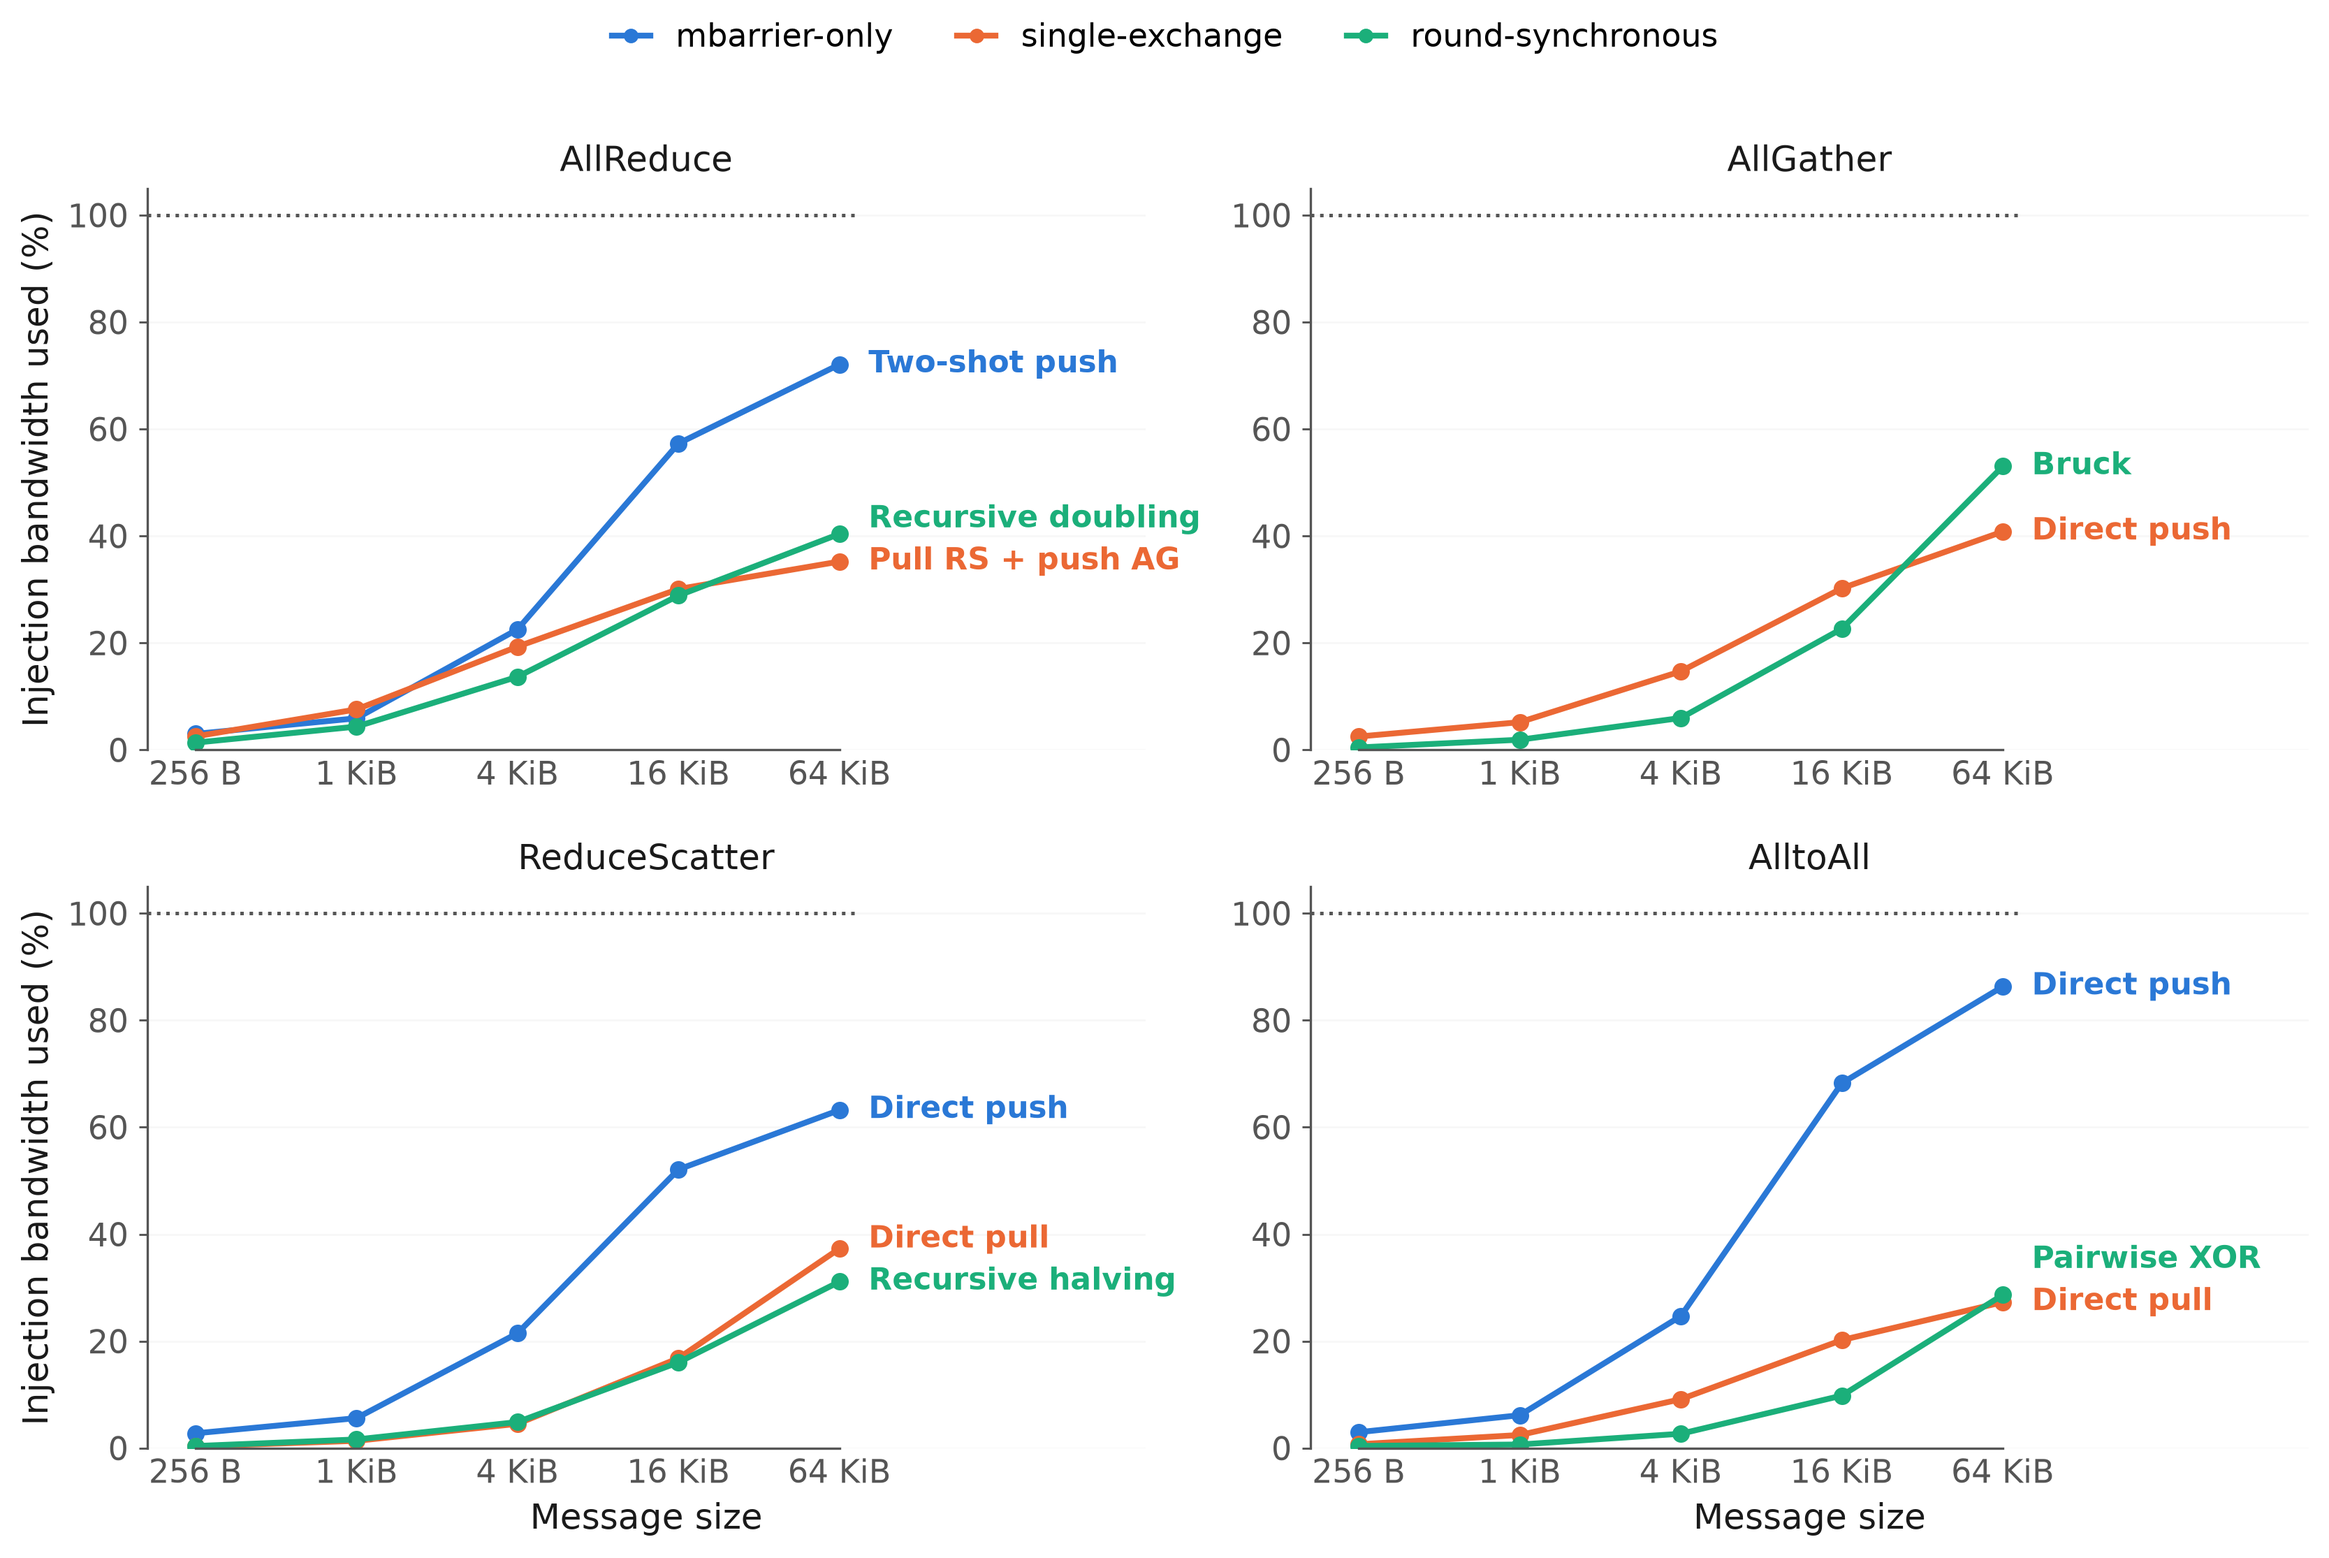
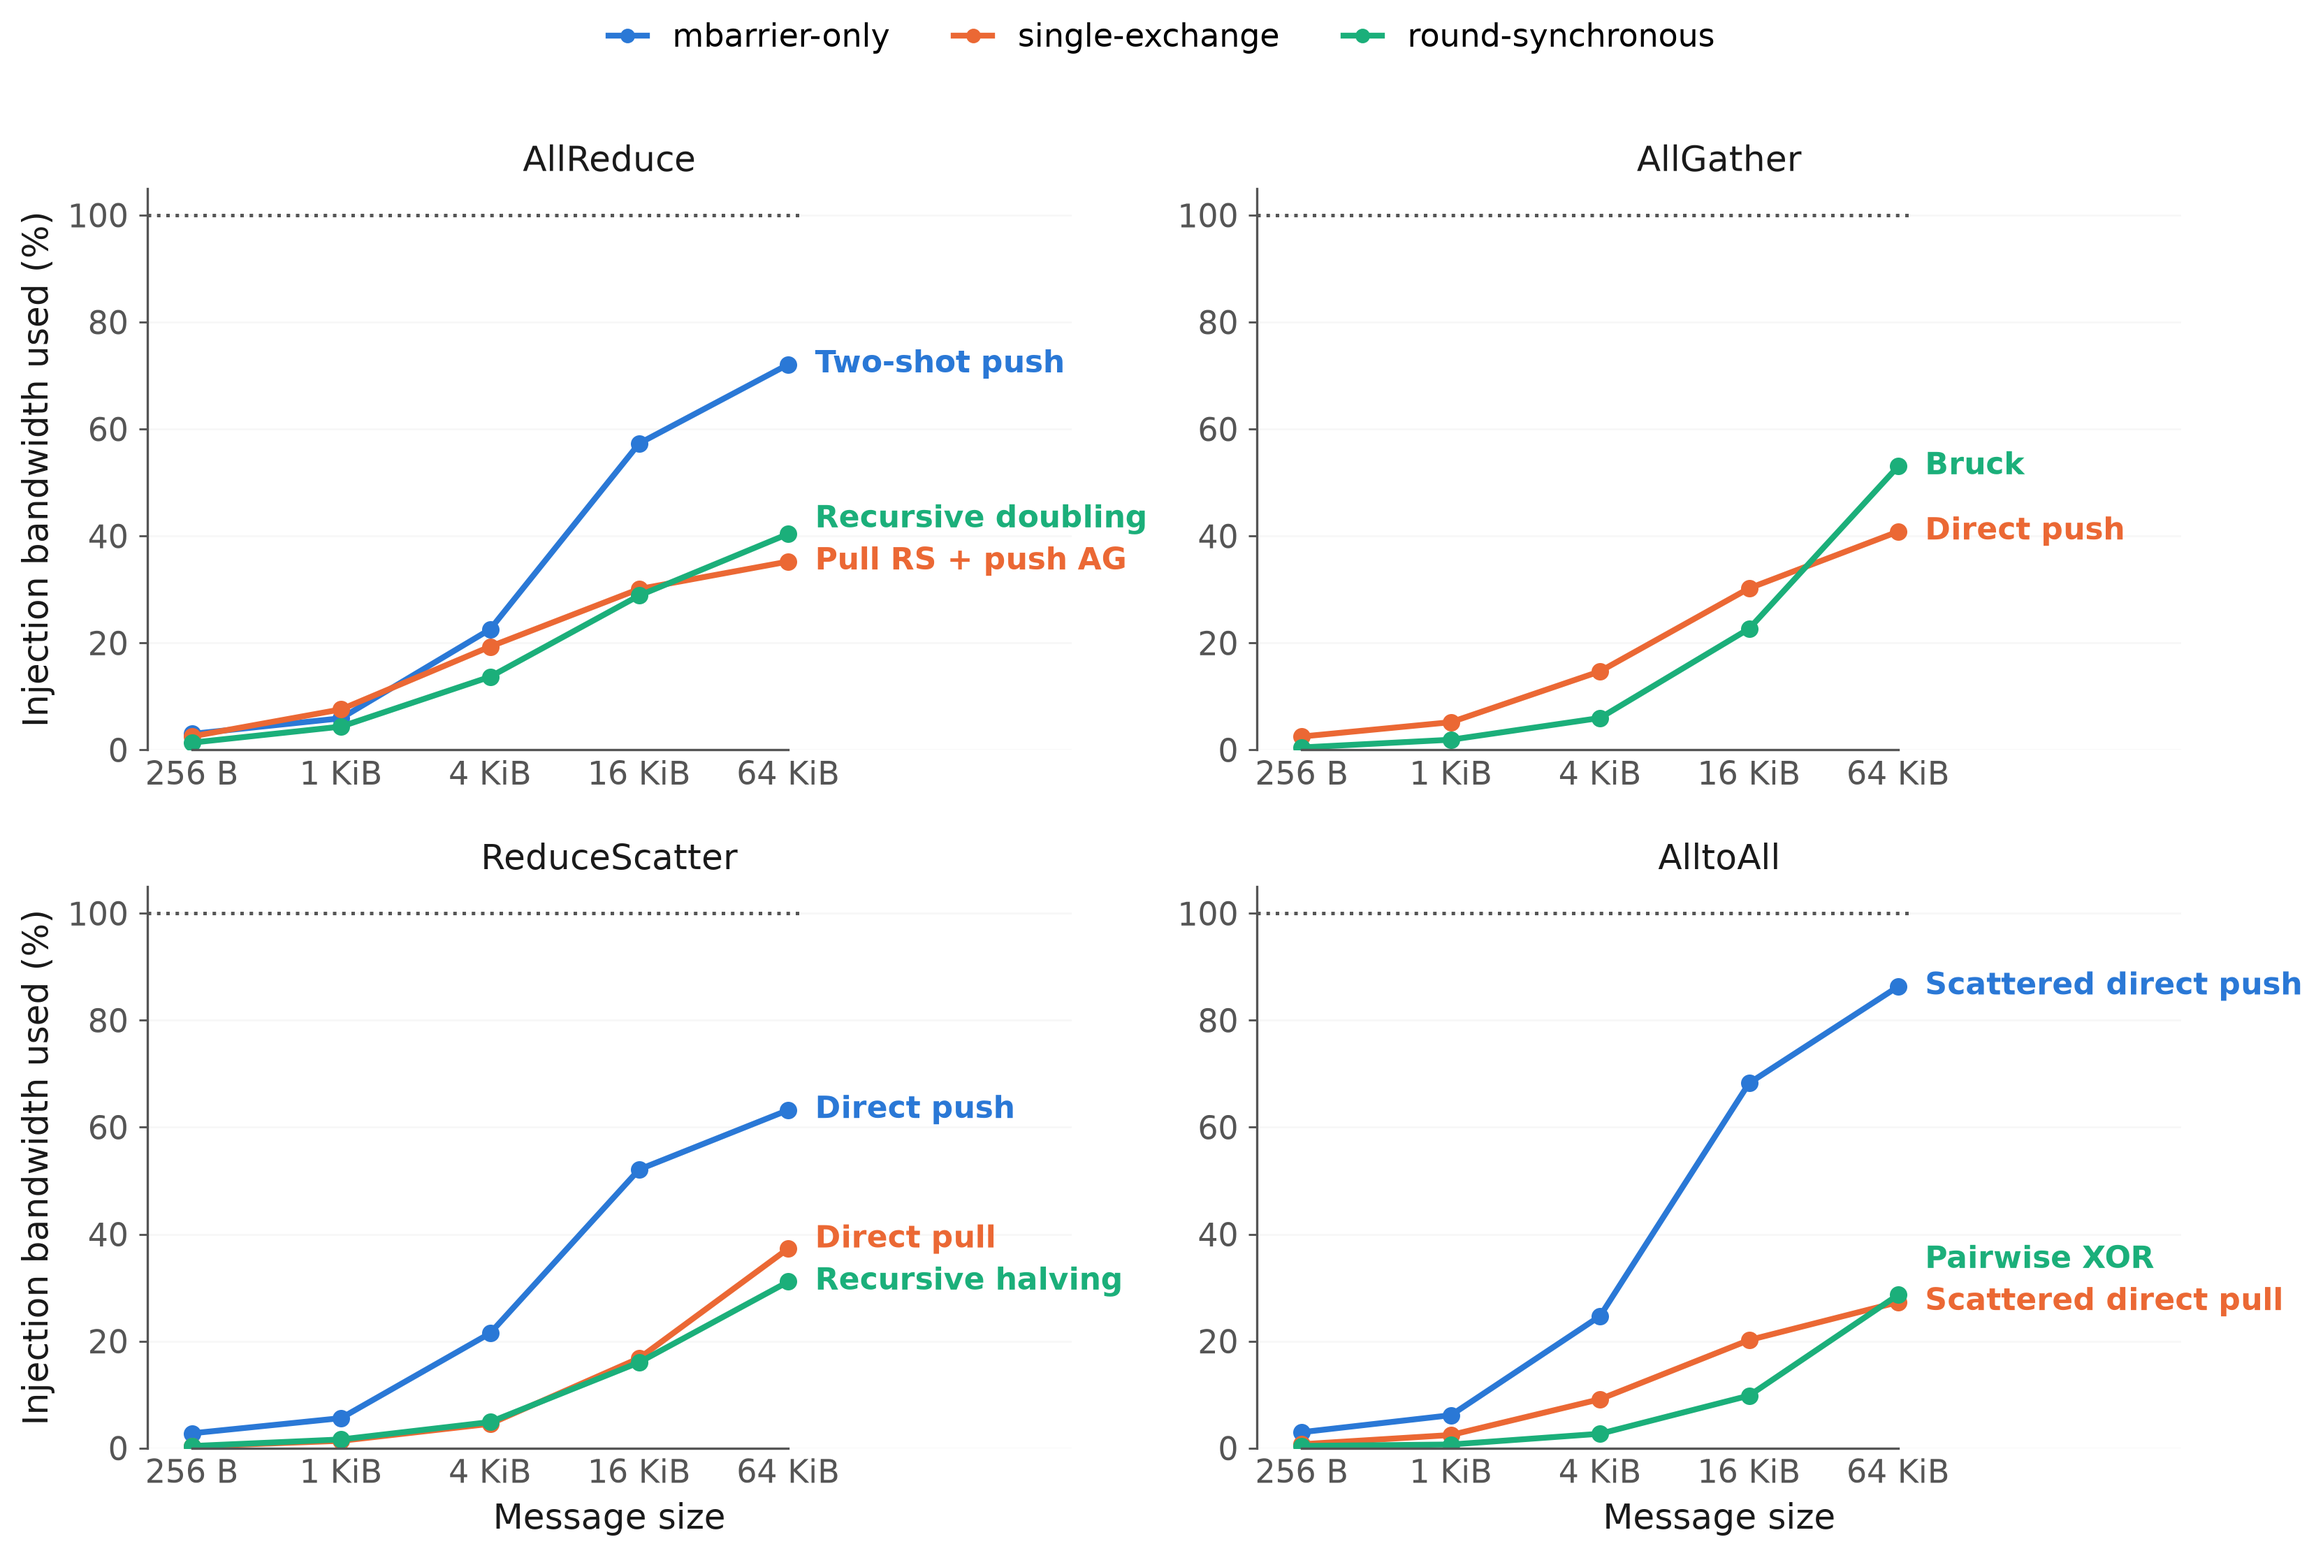
presentation: drop release/acquire hand-offs, cite algorithm origins
- handoff.png: relaxed remote mbarrier.arrive, st.async / red.async + mbarrier, 2 x barrier.cluster,
  st + ld.volatile poll (release/acquire flags and release arrive removed); slide 4 bullets rewritten
  without release/acquire costs.
- Algorithm origins instead of "generic": AlltoAll direct push = MPICH scattered isend/irecv
  ((rank + i) % p), shift = MPICH long-message pairwise exchange (Thakur, Rabenseifner, Gropp, IJHPCA
  2005), direct pull = its pull form; AllReduce 2-D mesh = 2D-Torus all-reduce (Mikami et al. 2018);
  atomic all-push = ClusterFusion scalar ClusterReduce; ReduceScatter direct push / pull = TensorRT-LLM
  two-shot phase 1 / hpc-ops phase 1; AllGather direct pull = TensorRT-LLM one-shot gather.

diff --git a/presentation/make_figures.py b/presentation/make_figures.py
@@ -277,35 +277,27 @@ def handoff():
     plt.close("all")
     rt = i["cs2_round_trip_cycles"]
     pick = lambda s: next(v for k, v in rt.items() if s in k)
-    rows = [("st.async + mbarrier", pick("st.async"), S.BLUE),
-            ("st + ld.volatile poll", pick("remote st + local"), S.GREY),
-            ("remote mbarrier.arrive.release", pick("arrive (release)"), S.ORANGE),
-            ("st.release / ld.acquire (SMEM)", pick("st.release"), S.ORANGE),
-            ("st.release / ld.acquire (global)", pick("global flag"), S.ORANGE)]
+    rows = [("remote mbarrier.arrive.relaxed", pick("arrive (relaxed)"), S.GREY),
+            ("st.async + mbarrier", pick("st.async"), S.BLUE),
+            ("red.async + mbarrier", pick("red.async"), S.BLUE),
+            ("2 × barrier.cluster", pick("two cluster.sync"), S.ORANGE),
+            ("st + ld.volatile poll", pick("remote st + local"), S.GREY)]
     f, ax = plt.subplots(figsize=(5.4, 3.8), constrained_layout=True)
     y = np.arange(len(rows))[::-1]
     rects = ax.barh(y, [r[1] for r in rows], color=[r[2] for r in rows], height=0.62)
-    gf = i["global_flag_home_other_partition"]
-    ax.plot([rows[-1][1], gf], [y[-1], y[-1]], color=S.INK, lw=1.2)
-    ax.plot([gf, gf], [y[-1] - 0.16, y[-1] + 0.16], color=S.INK, lw=1.2)
-    for r, (lab, val, _) in zip(rects, rows):
-        txt = f"{val:.0f}–{gf:.0f}" if "global" in lab else f"{val:.0f}"
-        x = gf if "global" in lab else val
-        ax.annotate(txt, (x, r.get_y() + r.get_height() / 2), xytext=(4, 0), textcoords="offset points",
-                    va="center", fontsize=10.5, color=S.INK2)
+    bar_labels(ax, rects, horizontal=True)
     ax.set_yticks(y, [r[0] for r in rows], fontsize=10.5)
     ax.tick_params(axis="y", length=0)
     ax.grid(axis="y", visible=False)
     ax.grid(axis="x", visible=True)
-    ax.set_xlim(0, 2700)
+    ax.set_xlim(0, 900)
     ax.set_xlabel("Round trip (cycles)")
-    f.legend(handles=[Patch(color=S.BLUE, label="data + completion (no fence)"),
-                      Patch(color=S.GREY, label="no ordering guarantee"),
-                      Patch(color=S.ORANGE, label="release / acquire")],
-             loc="outside upper center", ncol=1, fontsize=10.5)
+    f.legend(handles=[Patch(color=S.BLUE, label="data with completion"),
+                      Patch(color=S.GREY, label="signal only"),
+                      Patch(color=S.ORANGE, label="cluster barrier")],
+             loc="outside upper center", ncol=3, fontsize=10.5)
     for lab, val, _ in rows:
         note(4, f"round trip {lab}", val)
-    note(4, "global flag, home in other partition", gf)
     save(f, "handoff")
 
 
@@ -321,24 +313,24 @@ ALG = {  # file -> (algorithm, origin, rounds, transport)
     "allreduce__pull_reduce_scatter_push_allgather__hpcops": ("Pull RS + push AG", "hpc-ops", "1", "remote load/store"),
     "allreduce__shift_accumulate_bulk__clusterfusion": ("Shift-accumulate (bulk)", "ClusterFusion", "N−2", "bulk copy"),
     "allreduce__shift_accumulate_atomic__clusterfusion": ("Shift-accumulate (atomic)", "ClusterFusion", "N−2", "remote atomic"),
-    "allreduce__atomic_all_push__generic": ("Atomic all-push", "generic", "1", "remote atomic"),
-    "allreduce__2d_mesh__generic": ("2-D mesh", "generic", "3", "bulk copy"),
+    "allreduce__atomic_all_push__generic": ("Atomic all-push", "ClusterFusion (scalar ClusterReduce)", "1", "remote atomic"),
+    "allreduce__2d_mesh__generic": ("2-D torus", "2D-Torus all-reduce (Mikami et al.)", "3", "bulk copy"),
     "allgather__ring__nccl": ("Ring", "NCCL", "N−1", "bulk copy"),
     "allgather__recursive_doubling__clusterfusion": ("Recursive doubling", "ClusterFusion", "log₂N", "bulk copy"),
     "allgather__direct_shift__clusterfusion": ("Direct shift", "ClusterFusion", "N−1", "bulk copy"),
     "allgather__bruck__mpich": ("Bruck", "MPICH", "⌈log₂N⌉", "bulk copy"),
     "allgather__gather_bcast_binomial__mpich": ("Binomial gather + broadcast", "MPICH", "2·log₂N", "bulk copy"),
     "allgather__direct_replicated_push__credit": ("Direct push", "CREDIT", "1", "remote store"),
-    "allgather__direct_pull__generic": ("Direct pull", "generic", "1", "remote load"),
+    "allgather__direct_pull__generic": ("Direct pull", "TensorRT-LLM (one-shot gather)", "1", "remote load"),
     "reducescatter__ring__nccl": ("Ring", "NCCL", "N−1", "bulk copy"),
     "reducescatter__recursive_halving__mpich": ("Recursive halving", "MPICH", "log₂N", "bulk copy"),
-    "reducescatter__direct_push__generic": ("Direct push", "generic", "1", "bulk copy"),
-    "reducescatter__direct_pull__generic": ("Direct pull", "generic", "1", "remote load"),
+    "reducescatter__direct_push__generic": ("Direct push", "TensorRT-LLM (two-shot phase 1)", "1", "bulk copy"),
+    "reducescatter__direct_pull__generic": ("Direct pull", "hpc-ops (phase 1)", "1", "remote load"),
     "alltoall__pairwise_xor__mpich": ("Pairwise XOR", "MPICH", "N−1", "bulk copy"),
     "alltoall__bruck__mpich": ("Bruck", "MPICH", "log₂N", "bulk copy"),
-    "alltoall__shift__generic": ("Shift", "generic", "N−1", "bulk copy"),
-    "alltoall__direct_push__generic": ("Direct push", "generic", "1", "bulk copy"),
-    "alltoall__direct_pull__generic": ("Direct pull", "generic", "1", "remote load"),
+    "alltoall__shift__generic": ("Pairwise exchange (shift)", "MPICH", "N−1", "bulk copy"),
+    "alltoall__direct_push__generic": ("Scattered direct push", "MPICH", "1", "bulk copy"),
+    "alltoall__direct_pull__generic": ("Scattered direct pull", "MPICH (pull form)", "1", "remote load"),
     "alltoall__pairwise_exchange__fa4": ("Pairwise exchange", "FlashAttention-4", "1 (N = 2 only)", "bulk copy"),
 }
 CLASS_OF = dict(zip(C.CF.STYLES, S.CLASSES))

diff --git a/presentation/slides.md b/presentation/slides.md
@@ -37,15 +37,16 @@ Figure: `dsmem_bandwidth.png`
 ## 4. Synchronization overheads
 Figures: `sync_costs.png` (left; 256 threads per CTA), `handoff.png` (right; CS 2)
 
-- Every release operation compiles to a GPU-scope `MEMBAR`: `fence.sc.gpu` **281 cycles**, **441** after a prior store
-- `barrier.cluster`: **410 cycles** (no prior store), **580** (after a store); relaxed arrive + wait: 46
 - mbarrier operations: **29–39 cycles**
-- Lowest-cost data hand-off: `st.async` + mbarrier, **565-cycle round trip**; release/acquire flag 1325; global-memory flag 1962–2126
+- `barrier.cluster`: **410 cycles** without a prior store, **580** after a store; relaxed arrive + wait: **46**
+- Lowest-cost hand-off with data: `st.async` / `red.async` + mbarrier, **565-cycle round trip** (≈ 160 ns one way)
+- A hand-off through two cluster barriers costs **712 cycles**
 
 ---
 
 ## 5. DSMEM collectives: algorithms
 Table below (also `collective_algorithms.csv`). One cluster per launch, 256 threads per CTA, N = 2–16.
+Origin references: MPICH — Thakur, Rabenseifner, Gropp, *Optimization of Collective Communication Operations in MPICH*, IJHPCA 19(1), 2005; 2D-Torus all-reduce — Mikami et al., *Massively Distributed SGD: ImageNet/ResNet-50 Training in a Flash*, arXiv:1811.05233, 2018.
 
 Synchronization taxonomy:
 - **mbarrier-only** — data movement completes on the receiver's mbarrier; no cluster barrier inside the collective
@@ -54,9 +55,9 @@ Synchronization taxonomy:
 
 | Collective | Algorithm | Origin | Synchronization | Rounds | Transport |
 |---|---|---|---|---|---|
-| AllReduce | 2-D mesh | generic | mbarrier-only | 3 | bulk copy |
+| AllReduce | 2-D torus | 2D-Torus all-reduce (Mikami et al.) | mbarrier-only | 3 | bulk copy |
 | AllReduce | Two-shot push | TensorRT-LLM | mbarrier-only | 2 | bulk copy |
-| AllReduce | Atomic all-push | generic | single-exchange | 1 | remote atomic |
+| AllReduce | Atomic all-push | ClusterFusion (scalar ClusterReduce) | single-exchange | 1 | remote atomic |
 | AllReduce | One-shot pull | TensorRT-LLM | single-exchange | 1 | remote load |
 | AllReduce | Pull RS + push AG | hpc-ops | single-exchange | 1 | remote load/store |
 | AllReduce | Replicated direct push | CREDIT | single-exchange | 1 | remote store |
@@ -66,24 +67,23 @@ Synchronization taxonomy:
 | AllReduce | Ring (RS + AG) | NCCL | round-synchronous | 2(N−1) | bulk copy |
 | AllReduce | Shift-accumulate (atomic) | ClusterFusion | round-synchronous | N−2 | remote atomic |
 | AllReduce | Shift-accumulate (bulk) | ClusterFusion | round-synchronous | N−2 | bulk copy |
-| AllGather | Direct pull | generic | single-exchange | 1 | remote load |
+| AllGather | Direct pull | TensorRT-LLM (one-shot gather) | single-exchange | 1 | remote load |
 | AllGather | Direct push | CREDIT | single-exchange | 1 | remote store |
 | AllGather | Binomial gather + broadcast | MPICH | round-synchronous | 2·log₂N | bulk copy |
 | AllGather | Bruck | MPICH | round-synchronous | ⌈log₂N⌉ | bulk copy |
 | AllGather | Direct shift | ClusterFusion | round-synchronous | N−1 | bulk copy |
 | AllGather | Recursive doubling | ClusterFusion | round-synchronous | log₂N | bulk copy |
 | AllGather | Ring | NCCL | round-synchronous | N−1 | bulk copy |
-| ReduceScatter | Direct push | generic | mbarrier-only | 1 | bulk copy |
-| ReduceScatter | Direct pull | generic | single-exchange | 1 | remote load |
+| ReduceScatter | Direct push | TensorRT-LLM (two-shot phase 1) | mbarrier-only | 1 | bulk copy |
+| ReduceScatter | Direct pull | hpc-ops (phase 1) | single-exchange | 1 | remote load |
 | ReduceScatter | Recursive halving | MPICH | round-synchronous | log₂N | bulk copy |
 | ReduceScatter | Ring | NCCL | round-synchronous | N−1 | bulk copy |
-| AlltoAll | Direct push | generic | mbarrier-only | 1 | bulk copy |
 | AlltoAll | Pairwise exchange | FlashAttention-4 | mbarrier-only | 1 (N = 2 only) | bulk copy |
-| AlltoAll | Direct pull | generic | single-exchange | 1 | remote load |
+| AlltoAll | Scattered direct push | MPICH | mbarrier-only | 1 | bulk copy |
+| AlltoAll | Scattered direct pull | MPICH (pull form) | single-exchange | 1 | remote load |
 | AlltoAll | Bruck | MPICH | round-synchronous | log₂N | bulk copy |
 | AlltoAll | Pairwise XOR | MPICH | round-synchronous | N−1 | bulk copy |
-| AlltoAll | Shift | generic | round-synchronous | N−1 | bulk copy |
-
+| AlltoAll | Pairwise exchange (shift) | MPICH | round-synchronous | N−1 | bulk copy |
 
 ---
 
